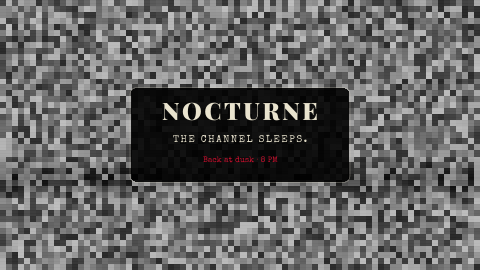
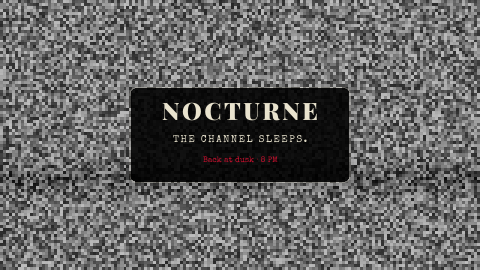
Adopt owner-selected static detail and optimize exact row modulation

diff --git a/web/src/pages/livetv/onair/crisp-static.ts b/web/src/pages/livetv/onair/crisp-static.ts
@@ -47,6 +47,8 @@ function walk(seed: U64, tick: number) {
     end = noise(seed, epoch + 1);
   return start + ((end - start) * position) / 32 + (sum - (total * position) / 32) * 0.08;
 }
+// Owner-selected detail 1.75 matches signal.DefaultStaticParameters.
+const grain = Math.max(1, Math.trunc(6 / 1.75));
 const frames = new Map<
   string,
   { canvas: OffscreenCanvas | HTMLCanvasElement; pixels: ImageData }
@@ -81,11 +83,11 @@ export function crispStatic(seed: number, tick: number, width: number, height: n
   const barHeight = Math.max(12, Math.floor(h / 11));
   const clock = xor(s, mul(integer(Math.floor(tick / 2)), [0xde82ef95, 0xd1342543]));
   const data = f.pixels.data;
-  for (let y = 0, gy = 0; y < h; y += 6, gy++) {
+  for (let y = 0, gy = 0; y < h; y += grain, gy++) {
     const rowSeed = xor(clock, mul(integer(gy), golden));
-    for (let x = 0, gx = 0; x < w; x += 6, gx++) {
+    for (let x = 0, gx = 0; x < w; x += grain, gx++) {
       const v = 52 + (hash(xor(rowSeed, integer(gx)))[1] >>> 25);
-      for (let yy = y; yy < Math.min(h, y + 6); yy++) {
+      for (let yy = y; yy < Math.min(h, y + grain); yy++) {
         const distance = Math.abs(yy - bar);
         let offset =
           distance < barHeight ? -Math.trunc(((barHeight - distance) * 28) / barHeight) : 0;
@@ -94,7 +96,7 @@ export function crispStatic(seed: number, tick: number, width: number, height: n
           0,
           Math.min(255, (298 * (Math.max(16, Math.min(235, v + offset)) - 16) + 128) >> 8),
         );
-        for (let xx = x; xx < Math.min(w, x + 6); xx++) {
+        for (let xx = x; xx < Math.min(w, x + grain); xx++) {
           const i = (yy * w + xx) * 4;
           data[i] = data[i + 1] = data[i + 2] = q;
           data[i + 3] = 255;

diff --git a/internal/onair/signal/static.go b/internal/onair/signal/static.go
@@ -47,14 +47,15 @@ type StaticParameters struct {
 	HissLevel, HumLevel                              float64
 }
 
-// DefaultStaticParameters preserves the approved W18 picture and sound.
+// DefaultStaticParameters uses owner-selected detail 1.75; every other value
+// preserves the approved W18 picture and sound.
 func DefaultStaticParameters() StaticParameters {
-	return StaticParameters{GrainSize: 6, Detail: 1, Gain: 1, RefreshHz: 15,
+	return StaticParameters{GrainSize: 6, Detail: 1.75, Gain: 1, RefreshHz: 15,
 		BarStrength: 1, BarSpeed: 1, TearAmount: 1, TearFrequency: 1, HissLevel: 1, HumLevel: 1}
 }
 
-// StaticVideo fills tightly packed I420 with crisp 6x6 destination-pixel
-// grains, changing at 15 Hz. The
+// StaticVideo fills tightly packed I420 with crisp destination-pixel grains
+// at the owner-selected detail, changing at 15 Hz. The
 // rolling bar and tears follow the full 30 Hz clock and never use a clip phase.
 // Composite an optional pre-rendered ID with ApplyOverlay after this call.
 func StaticVideo(dst []byte, w, h int, seed, tick int64) {
@@ -70,11 +71,21 @@ func StaticVideoWithParameters(dst []byte, w, h int, seed, tick int64, p StaticP
 	for i := w * h; i < w*h*3/2; i++ {
 		dst[i] = 128
 	}
+	walkTick := tick
+	if p.BarSpeed != 1 {
+		walkTick = int64(float64(tick) * p.BarSpeed)
+	}
 	t := float64(tick) / 30 * p.BarSpeed
-	bar := int((.5 + .24*math.Sin(t*.173) + .13*math.Sin(t*.071*math.Sqrt2) + .08*walk(seed, tick)) * float64(h))
+	bar := int((.5 + .24*math.Sin(t*.173) + .13*math.Sin(t*.071*math.Sqrt2) + .08*walk(seed, walkTick)) * float64(h))
 	barHeight := max(12, h/11)
-	update := int64(math.Floor(float64(tick) * max(0, min(30, p.RefreshHz)) / 30))
+	update := tick / 2
+	if p.RefreshHz != 15 {
+		update = int64(math.Floor(float64(tick) * max(0, min(30, p.RefreshHz)) / 30))
+	}
 	grain := max(1, min(128, int(float64(max(1, p.GrainSize))/max(.25, min(4, p.Detail)))))
+	gain := max(0, min(3, p.Gain))
+	minLuma := max(16, min(235, 115+int(-63*gain)))
+	maxLuma := max(16, min(235, 115+int(64*gain)))
 	for gy, y := 0, 0; y < h; gy, y = gy+1, y+grain {
 		row := yplane[y*w : (y+1)*w]
 		for gx, x := 0, 0; x < w; gx, x = gx+1, x+grain {
@@ -104,8 +115,20 @@ func StaticVideoWithParameters(dst []byte, w, h int, seed, tick int64, p StaticP
 			if (y+dy)%3 == 0 {
 				offset -= 3
 			}
-			for x, v := range target {
-				target[x] = byte(max(16, min(235, int(v)+offset)))
+			// Grain values are already legal luma. Most rows need no
+			// modulation; other rows can use a tight add loop when the
+			// whole source range stays legal after this row's offset.
+			if offset == 0 {
+				continue
+			}
+			if minLuma+offset >= 16 && maxLuma+offset <= 235 {
+				for x, v := range target {
+					target[x] = byte(int(v) + offset)
+				}
+			} else {
+				for x, v := range target {
+					target[x] = byte(max(16, min(235, int(v)+offset)))
+				}
 			}
 		}
 	}

diff --git a/internal/onair/raster/raster.go b/internal/onair/raster/raster.go
@@ -17,7 +17,7 @@ import (
 	"golang.org/x/image/vector"
 )
 
-const Version = "onair-raster-3-crisp-static"
+const Version = "onair-raster-4-static-detail-175"
 
 // Bindings keeps decoded artwork outside the document; images are immutable during a job.
 type Bindings struct {

diff --git a/docs/onair-proposal.md b/docs/onair-proposal.md
@@ -613,9 +613,10 @@ The CPU figures include decode. Decode is the variable part: a 1080p H.264 relea
 ### 4.9 Signal screens
 
 **What renders the screens**
-- **Live Signal engine.** Analogue static faithfully restores the owner-approved continuity demo (`cac0121d1`, `internal/onair/signal.StaticVideo`): neutral chroma, sharp 6×6 destination-pixel grains changing at 15 Hz, native 30 Hz rolling bar, scanline modulation and rare tracking tears. Grains are written directly into the full negotiated frame: no low-resolution field, interpolation, Gaussian bloom or temporal EMA. The continuous channel clock drives the non-repeating picture, hiss and hum; there is no clip loop.
+- **Live Signal engine.** Analogue static faithfully restores the owner-approved continuity demo (`cac0121d1`, `internal/onair/signal.StaticVideo`): neutral chroma, owner-selected detail 1.75 (3×3 destination-pixel grains from a base grain size of 6) changing at 15 Hz, native 30 Hz rolling bar, scanline modulation and rare tracking tears. Grains are written directly into the full negotiated frame: no low-resolution field, interpolation, Gaussian bloom or temporal EMA. The continuous channel clock drives the non-repeating picture, hiss and hum; there is no clip loop.
 - **One static.** Cold-tune fill, Signal static screens, Nocturne off-air and every scene `noise` background use this generator. Prepared foregrounds composite over live static in the switcher. The console preview uses the same integer hash, grain grid, bar and tracking model at the native scene size. Designed cards retain their subtle film grain.
 - **Other screens.** Modern card, bars, BRB and test card use prepared native-resolution plates with live phosphor effects. All are silent. Typography is prepared away from the frame clock.
+- **Detail and efficiency (owner decision, W20).** Detail defaults to 1.75; all other picture and audio parameters retain the approved W18 defaults. Noise stays native-resolution and dynamic. Row modulation skips unchanged rows and uses a tight add loop only when the complete luma range proves clamps unnecessary; pixel comparisons against the unoptimised 1.75 generator are exact, and Engine.Render allocates zero times per frame. The temporary owner static lab is not shipped.
 - **Bitrate.** The shared encoder retains its negotiated VBV ceiling and 20-frame x264 lookahead. Software grain tuning uses `aq-mode=2:aq-strength=0.8:psy-rd=1.0,0.15`; no blur or substituted texture hides entropy. Offline real-switcher samples record average/one-second peak bitrate and CPU at 1080p/720p.
 - **Cache.** The crisp renderer version participates in the content hash, invalidating soft static masters. Live static never reads a looping master from that cache.
 
